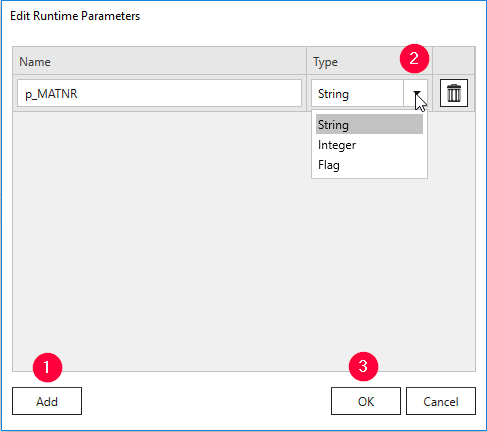
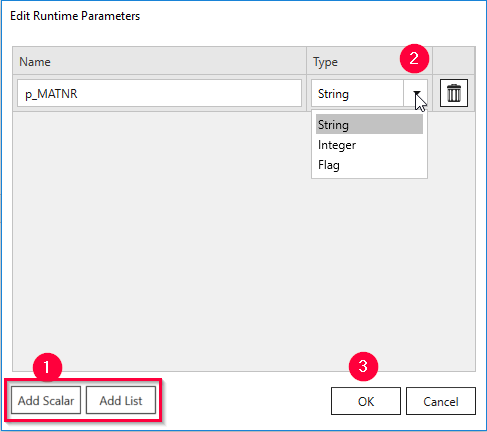
runtime parameters

Changed region(s): [[0.0, 0.8727, 0.3388, 0.9931]]

diff --git a/_includes/_content/de/odp/odp-settings-parameters.md b/_includes/_content/de/odp/odp-settings-parameters.md
@@ -1,12 +1,11 @@
 ### Parameter bearbeiten 
 
-Klicken Sie auf **Edit Parameters**, um dynamische Laufzeitparameter anzulegen und zu bearbeiten.
-
-1. Um die Bearbeitungsfunktion für die Parameter anzuzeigen, klicken Sie je nach Produkt entweder *oben* oder *unten* auf **Edit parameter** im Fenster “ODP”. <br/>
-Das Fenster "Edit Runtime Parameters" wird geöffnet.<br> 
+1. Klicken Sie im Hauptfenster der Komponente auf **Edit Runtime Parameter**, um Laufzeitparameter anzulegen und zu bearbeiten.
+Das Fenster "Edit Runtime Parameters" öffnet sich.<br> 
 ![ODP Add parameters](/img/content/odp/odp-settings-add-parameters.png){:class="img-responsive"}<br> 
-2. Klicken Sie auf **[Add]** (1), um Parameter zu definieren, die als Platzhalter für die Datenselektionen verwendet werden können. Die Platzhalter müssen zur Extraktionslaufzeit mit echten Werten befüllt werden. 
-Dies ermöglicht ein dynamisches Setzen von Selektionsfiltern zur Laufzeit.<br>
+2. Klicken Sie auf **[Add Scalar]**, um Skalarparameter zu definieren, die als Platzhalter für eine Datenauswahl verwendet werden können. <br>
+Klicken Sie auf **[Add List]**, um Listenparameter zu definieren, die mehrere Werten enthalten können. Die Werte werden durch Kommas voneinander getrennt, z.B. *1,10* oder *"1", "10"* <br>
+Die Platzhalter müssen zur Extraktionslaufzeit mit echten Werten befüllt werden.  <br>
 **Tipp:** Parameter0..-n sind die Standardnamen für die hinzugefügten Parameter. Sie können einen beliebigen Namen eingeben (siehe vorliegendes Beispiel: *"p_MATNR"*).
 3. Klicken Sie auf das Drop-Down-Menü (2) und weisen Sie einen der folgenden Datentypen einem Parameter zu. Die Datentypen können mit den SAP-Datentypen übereinstimmen. 
 - String: dieser Datentyp kann für jeden Typ der SAP-Selektionsfelder verwendet werden.
@@ -14,14 +13,12 @@ Dies ermöglicht ein dynamisches Setzen von Selektionsfiltern zur Laufzeit.<br>
 - Flag: dieser Datentyp kann nur für SAP-Selektionsfelder verwendet werden, die einen 'X'&nbsp;(true) oder eine leere Eingabe ''&nbsp;(false) als Eingabewert benötigen. 
 <br>
 4. Klicken Sie auf **[OK]** (3) zum Bestätigen.
-5. Um die erstellten Parameter für Selektionen zu verwenden, wählen Sie ein Element im Unterabschnitt **Fields** und klicken Sie auf **[Edit]**. Das Fenster "Edit Selections" wird geöffnet.<br> 
-6. Klicken Sie auf **[Add]** (5). Felder zum Setzen der Filteroptionen werden geöffnet.
+5. Um die erstellten Parameter für Selektionen zu verwenden, wählen Sie ein Element im Unterabschnitt **Fields** und klicken Sie auf **[Edit]** (4). Das Fenster "Edit Selections" wird geöffnet.<br> 
+6. Klicken Sie auf **[Add]** (5), um Felder für die Filteroptionen zu öffnen.
 7. Klicken Sie auf das Symbol neben den Eingabefeldern **Low** und **High** (6).
 Wenn es definierte Parameter gibt, wechselt das Symbol zum Parametersymbol. <br>
-Klicken auf die Icons wechselt die Optionen zwischen der Eingabe echter Eingabewerte und der Eingabe der definierten Parameter.  
-<br>
+Klicken auf die Icons wechselt die Optionen zwischen der Eingabe echter Eingabewerte und der Eingabe der definierten Parameter.<br>
 ![ODP Selection With Parameters](/img/content/odp/odp-selection-with-parameters.png){:class="img-responsive"}<br>
-7. Prüfen Sie die Funktionalität der definierten Parameter, indem Sie auf **[Load live preview]** klicken. <br>
-Wenn Sie Parameter als Selektionsfilter definiert haben, werden Sie aufgefordert, die Parameter mit echten Werten zu füllen.  <br>
+8. Prüfen Sie die Funktionalität der definierten Parameter, indem Sie auf **[Load live preview]** klicken. <br>
 Wenn Sie Parameter als Selektionsfilter definiert haben, werden Sie aufgefordert, die Parameter mit echten Werten zu füllen.  <br>
 ![ODP provide values](/img/content/odp/odp-provide-parameter-values.png){:class="img-responsive"}

diff --git a/_includes/_content/en/odp/odp-settings-parameters.md b/_includes/_content/en/odp/odp-settings-parameters.md
@@ -1,21 +1,19 @@
-### Edit Parameters 
+### Edit Runtime Parameters 
 
-Click **Edit Parameters** to create or edit dynamic runtime parameters.
-
-1. To display editing function for the parameters, depending on the product, click **Edit Parameters** either at the *top* or at the *bottom* of the window “Define data source for SAP ODP”. <br/>
-The window "Edit Runtime Parameters" opens.<br> 
+1. Click **Edit Runtime Parameters** in the main window of the component to create or edit dynamic runtime parameters.
+The window "Edit Runtime Parameters" opens.<br>
+2. Click **[Add Scalar]** to define scalar parameters that can be used as placeholders for data selections.<br>
+Click **[Add List]** to define list parameters that contain multiple values separated by commas e.g., 1,10 or “1”, “10”.
+The placeholders need to be populated with actual values at extraction runtime. <br>
+**Tip:** Parameter0..-n is the default naming for the added parameter. You can enter a name of your choice (see the given example: *"p_MATNR"*).<br>
 ![ODP Add parameters](/img/content/odp/odp-settings-add-parameters.png){:class="img-responsive"}<br> 
-2. Click **[Add]** (1) to define parameters which can be used as placeholders for data selections. These placeholders need to be populated with actual values at extraction runtime.
-This allows you to dynamically set filters at runtime.<br>
-**Tip:** Parameter0..-n is the default naming for the added parameter. You can enter a name of your choice (see the given example: *"p_MATNR"*).
-3. Click on the drop-down menu (2) and assign one of the following data types to a parameter. The data types can, but don't need to correlate to SAP data types. 
+3. Click on the drop-down menu (2) and assign one of the following data types to a parameter. The data types can, but don't have to correlate to SAP data types. 
 - String: This data type can be used for any type of SAP selection field.
 - Integer: This data type can be used for numeric SAP selection fields.
 - Flag: This data type can only be used for SAP selection fields, which require an 'X'&nbsp;(true) or a blank ''&nbsp;(false) as input value.
-<br>
 4. Click **[OK]** (3) to confirm.
 5. To use the parameters as selection criteria, choose an item in the subsection **Fields** and click **[Edit]** (4). The window "Edit Selections" opens.<br> 
-6. Click **[Add]** (5). Filtering option fields open.
+6. Click **[Add]** (5) to open the field for filtering.
 7. Click the icon next to the **Low** and **High** input fields (6).
 If there are runtime parameters, a parameter icon is displayed next to the input fields. <br>
 Clicking the icons switches the between entering actual input values and entering parameters.<br>

diff --git a/_includes/_content/en/bw-infocubes-and-bex-queries/edit-runtime-parameters.md b/_includes/_content/en/bw-infocubes-and-bex-queries/edit-runtime-parameters.md
@@ -3,15 +3,13 @@ Use runtime parameters to change dimension filters and variables dynamically dur
 
 ### Create Runtime Parameters 
 
-Click **Edit Parameters** to create or edit dynamic runtime parameters.
-
-1. To display editing function for the parameters, depending on the product, click **Edit Runtime Parameters**. <br/>
-The window "Edit Runtime Parameters" opens.<br> 
+1. Click **Edit Runtime Parameters** in the main window of the component to create or edit dynamic runtime parameters.
+The window "Edit Runtime Parameters" opens.<br>
 ![Add parameters](/img/content/edit-runtime-parameters-list.png){:class="img-responsive"}<br> 
 2. Click **[Add Scalar]** to define scalar parameters that can be used as placeholders for filters.<br>
 Click **[Add List]** to define list parameters that can be used as placeholders for dimension filters with multiple members.<br>
 The placeholders need to be populated with actual values at extraction runtime. List parameters contain a list of values separated by commas e.g., *1,10* or *"1", "10"*.<br>
-**Tip:** Parameter0..-n is the default naming for the added parameter. You can enter a name of your choice.
+**Tip:** Parameter0..-n is the default naming for the added parameter. You can enter a name of your choice.<br>
 3. Open the drop-down menu and assign one of the following data types to the parameter. The data types can, but don't need to correlate to SAP data types. 
 - String: This data type can be used for any type of SAP field.
 - Number: This data type can be used for numeric SAP fields.

diff --git a/_includes/_content/de/bw-infocubes-und-bex-queries/edit-runtime-parameters.md b/_includes/_content/de/bw-infocubes-und-bex-queries/edit-runtime-parameters.md
@@ -3,7 +3,7 @@ Verwenden Sie Laufzeitparameter, um Dimensionsfilter und Variablen dynamisch zur
 
 ### Laufzeitparameter erstellen 
 
-1. Um Laufzeitparameter anzulegen und zu bearbeiten, klicken Sie im Hauptfenster der Komponente auf **Edit Runtime Parameter**. <br/>
+1. Klicken Sie im Hauptfenster der Komponente auf **Edit Runtime Parameter**, um Laufzeitparameter anzulegen und zu bearbeiten.
 Das Fenster "Edit Runtime Parameters" öffnet sich.<br> 
 ![Add parameters](/img/content/edit-runtime-parameters-list.png){:class="img-responsive"}<br> 
 2. Klicken Sie auf **[Add Scalar]**, um Skalarparameter zu definieren, die als Platzhalter für die Datenfilter verwendet werden können. <br>
